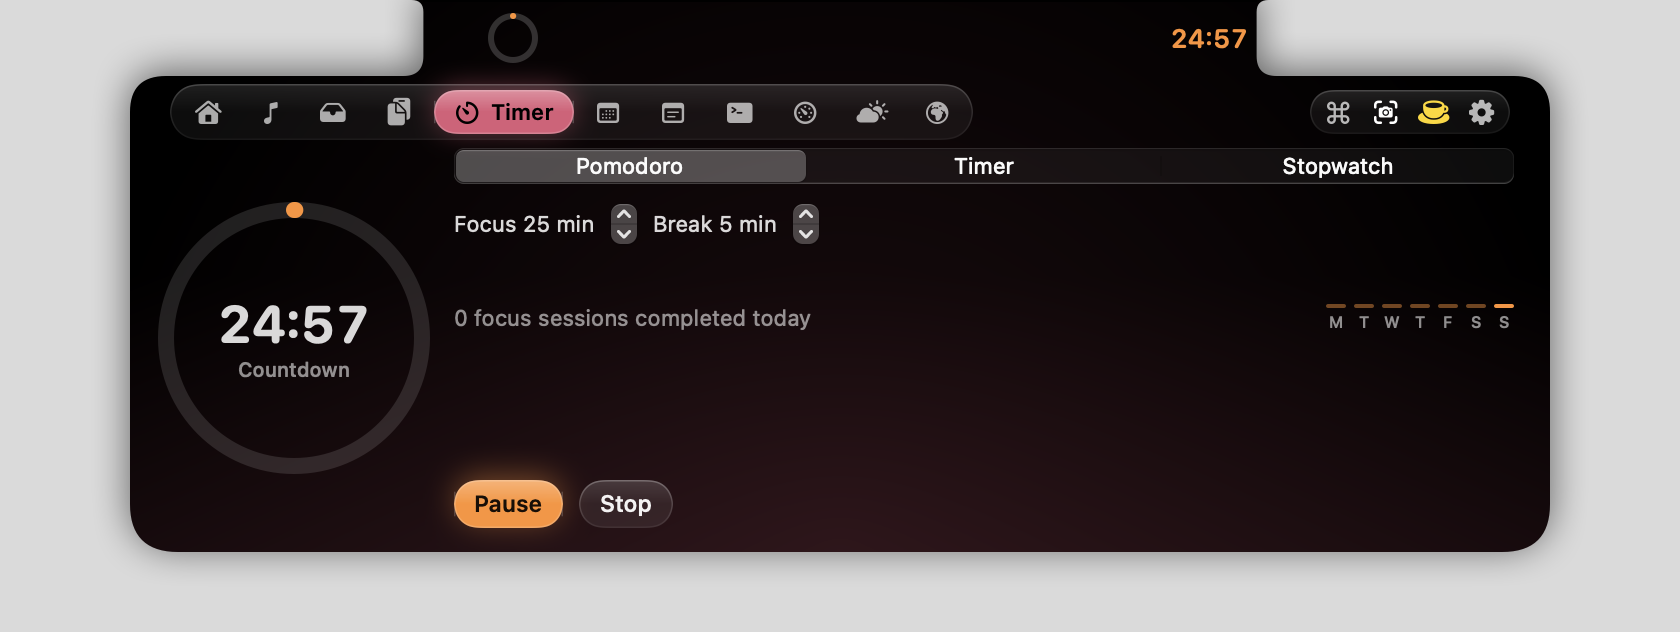
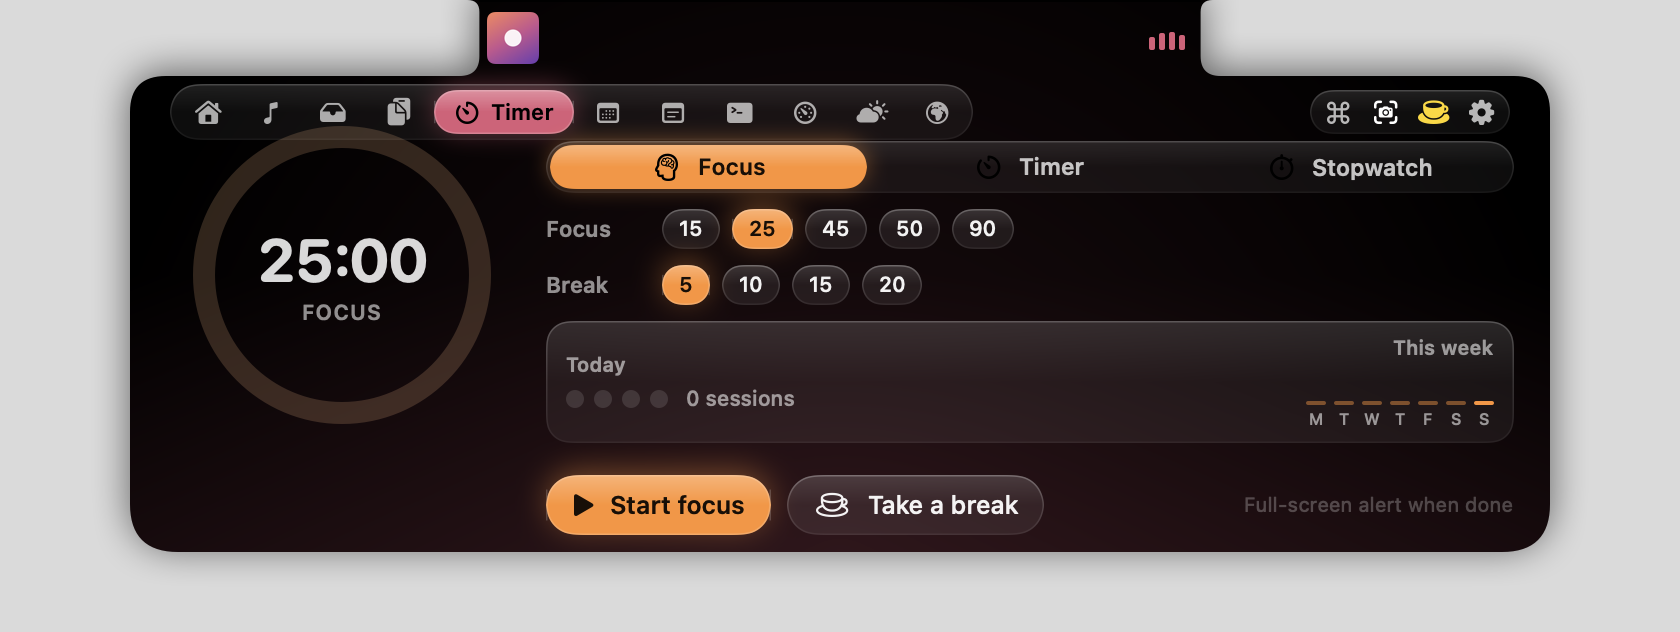
Timer tab redesign: glowing ring, glass segments, duration chips, +1 min while running
- Focus / Timer / Stopwatch in a glass segmented control; focus and break lengths and
  countdown presets as chips; custom minutes stepper in glass
- Ring gets a gradient stroke with a glowing head; stopwatch sweeps once a minute
- Running state shows the end time, Pause / Stop, +1 min / +5, Skip to break / Back to focus
- Today's sessions as dots next to the weekly chart; TimerManager.extend(minutes:) and endsAt

diff --git a/Sources/Loft/Features/Timer/TimerTabView.swift b/Sources/Loft/Features/Timer/TimerTabView.swift
@@ -1,75 +1,74 @@
 import SwiftUI
 
+/// Focus / Timer / Stopwatch. A glowing ring on the left, one glass card of controls on the
+/// right; while something runs, the card turns into a status panel with Pause, Stop, +1 min.
 struct TimerTabView: View {
     @ObservedObject var timer = TimerManager.shared
     @ObservedObject var prefs = Preferences.shared
-    @State private var picker = 0   // 0 pomodoro, 1 countdown, 2 stopwatch
+    @State private var picker = 0   // 0 focus, 1 countdown, 2 stopwatch
+    @Environment(\.islandTint) private var islandTint
+
+    private var accent: Color {
+        switch timer.mode {
+        case .pomodoroBreak: .green
+        case .stopwatch: .cyan
+        default: .orange
+        }
+    }
 
     var body: some View {
-        HStack(spacing: 16) {
-            VStack(spacing: 6) {
-                ZStack {
-                    Circle().stroke(.white.opacity(0.12), lineWidth: 8)
-                    Circle().trim(from: 0, to: timer.mode == .stopwatch ? 1 : CGFloat(timer.progress))
-                        .stroke(timer.mode == .pomodoroBreak ? Color.green : Color.orange, style: StrokeStyle(lineWidth: 8, lineCap: .round))
-                        .rotationEffect(.degrees(-90))
-                        .animation(.linear(duration: 0.25), value: timer.progress)
-                    VStack(spacing: 2) {
-                        Text(timer.isRunning ? timer.remaining.clockString : previewString)
-                            .font(.system(size: 26, weight: .bold, design: .rounded)).monospacedDigit()
-                        Text(timer.isRunning ? timer.modeTitle + (timer.isPaused ? " · paused" : "") : "ready")
-                            .font(.system(size: 10, weight: .medium)).foregroundStyle(.secondary)
-                    }
-                }
-                .frame(width: 128, height: 128)
+        HStack(spacing: 14) {
+            ring.frame(width: 176)
+            VStack(alignment: .leading, spacing: 8) {
+                if timer.isRunning { running } else { setup }
             }
-            VStack(alignment: .leading, spacing: 10) {
-                Picker("", selection: $picker) {
-                    Text("Pomodoro").tag(0); Text("Timer").tag(1); Text("Stopwatch").tag(2)
-                }.pickerStyle(.segmented).labelsHidden().controlSize(.small)
-                Group {
-                    switch picker {
-                    case 0:
-                        HStack(spacing: 8) {
-                            Stepper("Focus \(prefs.pomodoroWorkMinutes) min", value: $prefs.pomodoroWorkMinutes, in: 5...90, step: 5)
-                            Stepper("Break \(prefs.pomodoroBreakMinutes) min", value: $prefs.pomodoroBreakMinutes, in: 1...30)
-                        }.font(.system(size: 11))
-                        HStack(alignment: .bottom, spacing: 10) {
-                            Text("\(timer.sessionsToday) focus session\(timer.sessionsToday == 1 ? "" : "s") completed today")
-                                .font(.system(size: 11)).foregroundStyle(.secondary)
-                            Spacer()
-                            SessionHistoryChart(history: timer.sessionHistory())
-                        }
-                    case 1:
-                        HStack(spacing: 6) {
-                            ForEach([5, 10, 15, 25, 45, 60], id: \.self) { m in
-                                Button("\(m)") { timer.customMinutes = m; timer.startCountdown(minutes: m) }
-                                    .buttonStyle(.loftGlass).controlSize(.small)
-                            }
-                        }
-                        Stepper("Custom: \(timer.customMinutes) min", value: $timer.customMinutes, in: 1...240).font(.system(size: 11))
-                    default:
-                        Text("Drift-free stopwatch. Pause and resume as needed.").font(.system(size: 11)).foregroundStyle(.secondary)
-                    }
+            .padding(.vertical, 4)
+            .frame(maxWidth: .infinity, maxHeight: .infinity, alignment: .topLeading)
+        }
+        .onAppear {
+            switch timer.mode { case .countdown: picker = 1; case .stopwatch: picker = 2; case .idle: break; default: picker = 0 }
+        }
+    }
+
+    // MARK: Ring
+
+    private var ring: some View {
+        VStack(spacing: 10) {
+            ZStack {
+                Circle().stroke(.white.opacity(0.08), lineWidth: 11)
+                Circle().stroke(accent.opacity(0.12), lineWidth: 11).blur(radius: 6)
+                let value = timer.mode == .stopwatch ? (timer.remaining.truncatingRemainder(dividingBy: 60)) / 60 : timer.progress
+                Circle().trim(from: 0, to: timer.isRunning ? CGFloat(value) : 0)
+                    .stroke(AngularGradient(colors: [accent.opacity(0.55), accent], center: .center, startAngle: .degrees(0), endAngle: .degrees(360 * max(0.05, value))),
+                            style: StrokeStyle(lineWidth: 11, lineCap: .round))
+                    .rotationEffect(.degrees(-90))
+                    .shadow(color: accent.opacity(0.6), radius: 8)
+                    .animation(.linear(duration: 0.25), value: value)
+                VStack(spacing: 3) {
+                    Text(timer.isRunning ? timer.remaining.clockString : previewString)
+                        .font(.system(size: 30, weight: .bold, design: .rounded)).monospacedDigit().tracking(-0.5)
+                        .contentTransition(.numericText())
+                    Text(statusLine)
+                        .font(.system(size: 10.5, weight: .semibold)).foregroundStyle(timer.isRunning ? accent : .secondary)
+                        .textCase(.uppercase).tracking(0.6)
                 }
-                Spacer(minLength: 0)
-                HStack(spacing: 8) {
-                    if timer.isRunning {
-                        Button(timer.isPaused ? "Resume" : "Pause") { timer.isPaused ? timer.resume() : timer.pause() }
-                            .buttonStyle(.loftProminent(.orange))
-                        Button("Stop", role: .destructive) { timer.stop() }.buttonStyle(.loftGlass)
-                    } else {
-                        Button(startTitle) {
-                            switch picker {
-                            case 0: timer.startPomodoro()
-                            case 1: timer.startCountdown(minutes: timer.customMinutes)
-                            default: timer.startStopwatch()
-                            }
-                        }.buttonStyle(.loftProminent(.orange))
-                    }
-                }.controlSize(.small)
+            }
+            .frame(width: 138, height: 138)
+            .padding(.top, 2)
+            if let end = timer.endsAt {
+                Label(end.shortTime, systemImage: "bell").font(.system(size: 11, weight: .medium)).foregroundStyle(.secondary)
+                    .padding(.horizontal, 10).frame(height: 24).glass(Capsule(), strength: 0.7)
+            } else if timer.isPaused {
+                Label("Paused", systemImage: "pause.fill").font(.system(size: 11, weight: .medium)).foregroundStyle(.secondary)
+                    .padding(.horizontal, 10).frame(height: 24).glass(Capsule(), strength: 0.7)
             }
         }
+        .frame(maxHeight: .infinity, alignment: .top)
+    }
+
+    private var statusLine: String {
+        if timer.isRunning { return timer.isPaused ? "paused" : timer.modeTitle }
+        return picker == 0 ? "focus" : picker == 1 ? "timer" : "stopwatch"
     }
 
     private var previewString: String {
@@ -79,9 +78,184 @@ struct TimerTabView: View {
         default: "0:00"
         }
     }
-    private var startTitle: String { picker == 0 ? "Start Focus" : picker == 1 ? "Start Timer" : "Start" }
+
+    // MARK: Setup (idle)
+
+    @ViewBuilder private var setup: some View {
+        GlassSegments(selection: $picker, items: [("Focus", "brain.head.profile"), ("Timer", "timer"), ("Stopwatch", "stopwatch")], tint: .orange)
+        Group {
+            switch picker {
+            case 0: focusSetup
+            case 1: countdownSetup
+            default: stopwatchSetup
+            }
+        }
+        Spacer(minLength: 0)
+        HStack(spacing: 8) {
+            Button {
+                switch picker {
+                case 0: timer.startPomodoro()
+                case 1: timer.startCountdown(minutes: timer.customMinutes)
+                default: timer.startStopwatch()
+                }
+            } label: { Label(picker == 0 ? "Start focus" : picker == 1 ? "Start timer" : "Start", systemImage: "play.fill") }
+            .buttonStyle(.loftProminent(picker == 2 ? .cyan : .orange))
+            if picker == 0 {
+                Button { timer.startBreak() } label: { Label("Take a break", systemImage: "cup.and.saucer") }.buttonStyle(.loftGlass)
+            }
+            Spacer()
+            Text(prefs.timerFullScreenAlert ? "Full-screen alert when done" : "Island alert when done")
+                .font(.system(size: 10)).foregroundStyle(.tertiary)
+        }
+    }
+
+    private var focusSetup: some View {
+        VStack(alignment: .leading, spacing: 8) {
+            chipRow(title: "Focus", values: [15, 25, 45, 50, 90], selected: prefs.pomodoroWorkMinutes) { prefs.pomodoroWorkMinutes = $0 }
+            chipRow(title: "Break", values: [5, 10, 15, 20], selected: prefs.pomodoroBreakMinutes) { prefs.pomodoroBreakMinutes = $0 }
+            HStack(alignment: .center, spacing: 14) {
+                VStack(alignment: .leading, spacing: 4) {
+                    Text("Today").font(.system(size: 10, weight: .semibold)).foregroundStyle(.secondary)
+                    HStack(spacing: 5) {
+                        ForEach(0..<max(4, min(8, timer.sessionsToday + 1)), id: \.self) { i in
+                            Circle().fill(i < timer.sessionsToday ? Color.orange : Color.white.opacity(0.12)).frame(width: 9, height: 9)
+                        }
+                        Text("\(timer.sessionsToday) session\(timer.sessionsToday == 1 ? "" : "s")")
+                            .font(.system(size: 10.5, weight: .medium)).foregroundStyle(.secondary).padding(.leading, 4)
+                    }
+                }
+                Spacer()
+                VStack(alignment: .trailing, spacing: 4) {
+                    Text("This week").font(.system(size: 10, weight: .semibold)).foregroundStyle(.secondary)
+                    SessionHistoryChart(history: timer.sessionHistory())
+                }
+            }
+            .padding(.horizontal, 10).padding(.vertical, 7)
+            .glassCard(cornerRadius: 12, strength: 0.8)
+        }
+    }
+
+    private var countdownSetup: some View {
+        VStack(alignment: .leading, spacing: 10) {
+            chipRow(title: "Minutes", values: [5, 10, 15, 25, 45, 60], selected: timer.customMinutes) { timer.customMinutes = $0 }
+            HStack(spacing: 8) {
+                Text("Custom").font(.system(size: 11, weight: .semibold)).foregroundStyle(.secondary).frame(width: 52, alignment: .leading)
+                HStack(spacing: 0) {
+                    Button { timer.customMinutes = max(1, timer.customMinutes - (timer.customMinutes > 10 ? 5 : 1)) } label: { Image(systemName: "minus").frame(width: 26, height: 24) }
+                    Text("\(timer.customMinutes) min").font(.system(size: 12, weight: .semibold, design: .rounded)).monospacedDigit().frame(width: 64)
+                    Button { timer.customMinutes = min(240, timer.customMinutes + (timer.customMinutes >= 10 ? 5 : 1)) } label: { Image(systemName: "plus").frame(width: 26, height: 24) }
+                }
+                .buttonStyle(.plain).glass(Capsule(), strength: 0.8)
+                Spacer()
+            }
+        }
+    }
+
+    private var stopwatchSetup: some View {
+        VStack(alignment: .leading, spacing: 6) {
+            Text("Drift-free stopwatch").font(.system(size: 12, weight: .semibold))
+            Text("Pause and resume as often as you like. The ring sweeps once per minute; the pill shows the elapsed time while you work.")
+                .font(.system(size: 11)).foregroundStyle(.secondary).fixedSize(horizontal: false, vertical: true)
+        }
+        .padding(10).glassCard(cornerRadius: 12, strength: 0.8)
+    }
+
+    private func chipRow(title: String, values: [Int], selected: Int, pick: @escaping (Int) -> Void) -> some View {
+        HStack(spacing: 6) {
+            Text(title).font(.system(size: 11, weight: .semibold)).foregroundStyle(.secondary).frame(width: 52, alignment: .leading)
+            ForEach(values, id: \.self) { m in
+                Button("\(m)") { pick(m) }
+                    .buttonStyle(m == selected ? .loftProminent(.orange) : .loftGlass).controlSize(.mini)
+            }
+            if !values.contains(selected) {
+                Text("\(selected) min").font(.system(size: 11, weight: .medium)).foregroundStyle(.secondary)
+            }
+        }
+    }
+
+    // MARK: Running
+
+    @ViewBuilder private var running: some View {
+        VStack(alignment: .leading, spacing: 4) {
+            Text(timer.modeTitle).font(.system(size: 18, weight: .bold, design: .rounded))
+            Text(runningHint).font(.system(size: 11)).foregroundStyle(.secondary)
+        }
+        if timer.mode == .pomodoroWork || timer.mode == .pomodoroBreak {
+            HStack(spacing: 14) {
+                HStack(spacing: 5) {
+                    ForEach(0..<max(4, min(8, timer.sessionsToday + 1)), id: \.self) { i in
+                        Circle().fill(i < timer.sessionsToday ? Color.orange : Color.white.opacity(0.12)).frame(width: 9, height: 9)
+                    }
+                    Text("\(timer.sessionsToday) done today").font(.system(size: 10.5, weight: .medium)).foregroundStyle(.secondary).padding(.leading, 4)
+                }
+                Spacer()
+                SessionHistoryChart(history: timer.sessionHistory())
+            }
+            .padding(10).glassCard(cornerRadius: 12, strength: 0.8)
+        }
+        Spacer(minLength: 0)
+        HStack(spacing: 8) {
+            Button { timer.isPaused ? timer.resume() : timer.pause() } label: {
+                Label(timer.isPaused ? "Resume" : "Pause", systemImage: timer.isPaused ? "play.fill" : "pause.fill")
+            }.buttonStyle(.loftProminent(accent))
+            Button { timer.stop() } label: { Label("Stop", systemImage: "stop.fill") }.buttonStyle(.loftGlass)
+            if timer.mode != .stopwatch {
+                Button("+1 min") { timer.extend(minutes: 1) }.buttonStyle(.loftGlass)
+                Button("+5") { timer.extend(minutes: 5) }.buttonStyle(.loftGlass)
+            }
+            if timer.mode == .pomodoroWork {
+                Spacer()
+                Button { timer.startBreak() } label: { Label("Skip to break", systemImage: "forward.end.fill") }.buttonStyle(.loftQuiet)
+            } else if timer.mode == .pomodoroBreak {
+                Spacer()
+                Button { timer.startPomodoro() } label: { Label("Back to focus", systemImage: "forward.end.fill") }.buttonStyle(.loftQuiet)
+            }
+        }
+    }
+
+    private var runningHint: String {
+        switch timer.mode {
+        case .pomodoroWork: "Stay on one thing. \(prefs.pomodoroBreakMinutes)-minute break afterwards."
+        case .pomodoroBreak: "Step away from the screen; focus resumes when you are back."
+        case .countdown: timer.endsAt.map { "Rings at \($0.shortTime)." } ?? "Paused."
+        case .stopwatch: "Running since \(Date().addingTimeInterval(-timer.remaining).shortTime)."
+        case .idle: ""
+        }
+    }
 }
 
+/// Glass segmented control: one capsule, the selected segment lit with the tint.
+struct GlassSegments: View {
+    @Binding var selection: Int
+    let items: [(String, String)]
+    var tint: Color
+    @Namespace private var ns
+    var body: some View {
+        HStack(spacing: 2) {
+            ForEach(Array(items.enumerated()), id: \.offset) { i, item in
+                let on = i == selection
+                Button { withAnimation(.smooth(duration: 0.22)) { selection = i } } label: {
+                    Label(item.0, systemImage: item.1)
+                        .font(.system(size: 11.5, weight: .semibold))
+                        .foregroundStyle(on ? Color.black.opacity(0.9) : .white.opacity(0.75))
+                        .padding(.horizontal, 12).frame(height: 22)
+                        .frame(maxWidth: .infinity)
+                        .background {
+                            if on {
+                                Capsule().fill(tint)
+                                    .overlay(Capsule().fill(LinearGradient(colors: [.white.opacity(0.3), .clear], startPoint: .top, endPoint: .center)))
+                                    .shadow(color: tint.opacity(0.4), radius: 6, y: 1)
+                                    .matchedGeometryEffect(id: "seg", in: ns)
+                            }
+                        }
+                        .contentShape(Capsule())
+                }.buttonStyle(.plain)
+            }
+        }
+        .padding(2)
+        .glass(Capsule(), strength: 0.7)
+    }
+}
 
 /// Seven small bars, one per day, so a streak is visible at a glance.
 struct SessionHistoryChart: View {
@@ -99,6 +273,6 @@ struct SessionHistoryChart: View {
                 .help("\(day.count) session\(day.count == 1 ? "" : "s")")
             }
         }
-        .frame(height: 34, alignment: .bottom)
+        .frame(height: 30, alignment: .bottom)
     }
 }

diff --git a/Sources/Loft/Features/Timer/TimerManager.swift b/Sources/Loft/Features/Timer/TimerManager.swift
@@ -95,6 +95,18 @@ final class TimerManager: ObservableObject {
         isPaused = false
     }
 
+    /// Adds time to a running countdown or focus/break session.
+    func extend(minutes: Int) {
+        guard isRunning, mode != .stopwatch else { return }
+        let delta = TimeInterval(minutes * 60)
+        total += delta
+        if isPaused { pausedRemaining += delta } else { endDate = endDate.addingTimeInterval(delta) }
+        now = Date()
+    }
+
+    /// Time of day the current countdown ends, nil for stopwatch / idle / paused.
+    var endsAt: Date? { isRunning && !isPaused && mode != .stopwatch ? endDate : nil }
+
     func stop() {
         ticker?.invalidate(); ticker = nil
         isRunning = false; isPaused = false; mode = .idle; total = 0

diff --git a/README.md b/README.md
@@ -25,7 +25,7 @@ Calendar you choose to connect).
 
 ## Install
 
-1. Download `Loft-x.y.z.dmg` from the [latest release](https://github.com/joinalahmed/loft/releases/latest) and drag Loft to Applications.
+1. **[Download the latest Loft DMG](https://github.com/joinalahmed/loft/releases/latest)** (universal, about 4 MB; a zip and SHA-256 checksums are attached to every release) and drag Loft to Applications.
 2. Loft is signed ad hoc, not notarised, so the first launch needs one extra step: **right-click Loft.app → Open → Open**,
    or from a terminal:
    ```sh
@@ -60,7 +60,7 @@ Hover, click, or press `⌃⌥N`. Tabs can be switched on, off and reordered in 
 | **Music** | artwork, scrubber, ±15 s, transport, source app, time-synced lyrics, audio-output switcher |
 | **Shelf** | drop files on the notch and drag them out later; AirDrop, copy, reveal; convert / resize / OCR images; zip anything |
 | **Clipboard** | searchable history with pins: text, links, colours, images, files; double-click pastes |
-| **Timer** | Pomodoro with daily session history, countdown presets, drift-free stopwatch |
+| **Timer** | Focus sessions with break and duration chips, countdown presets, +1 min while running, drift-free stopwatch, daily and weekly history |
 | **Calendar** | month grid with event dots, day agenda, Join buttons; every macOS account plus a directly connected Google account |
 | **Reminders** | overdue / today / later across lists; check off, add with a due date; full-screen alert when due |
 | **Notes** | one autosaved quick note |
